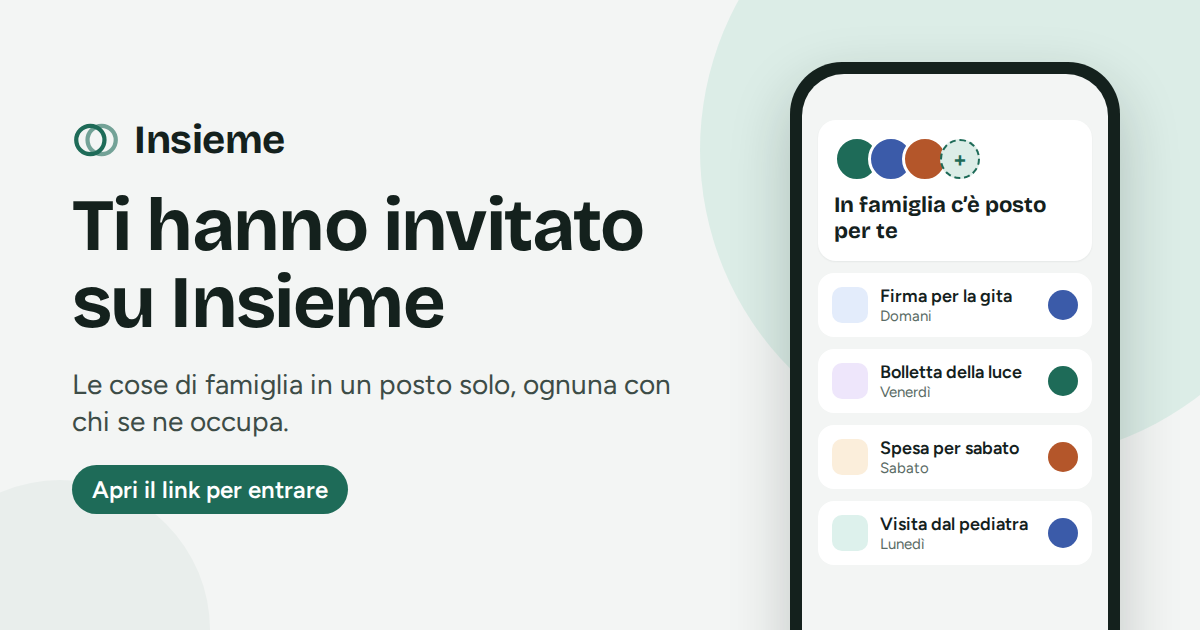
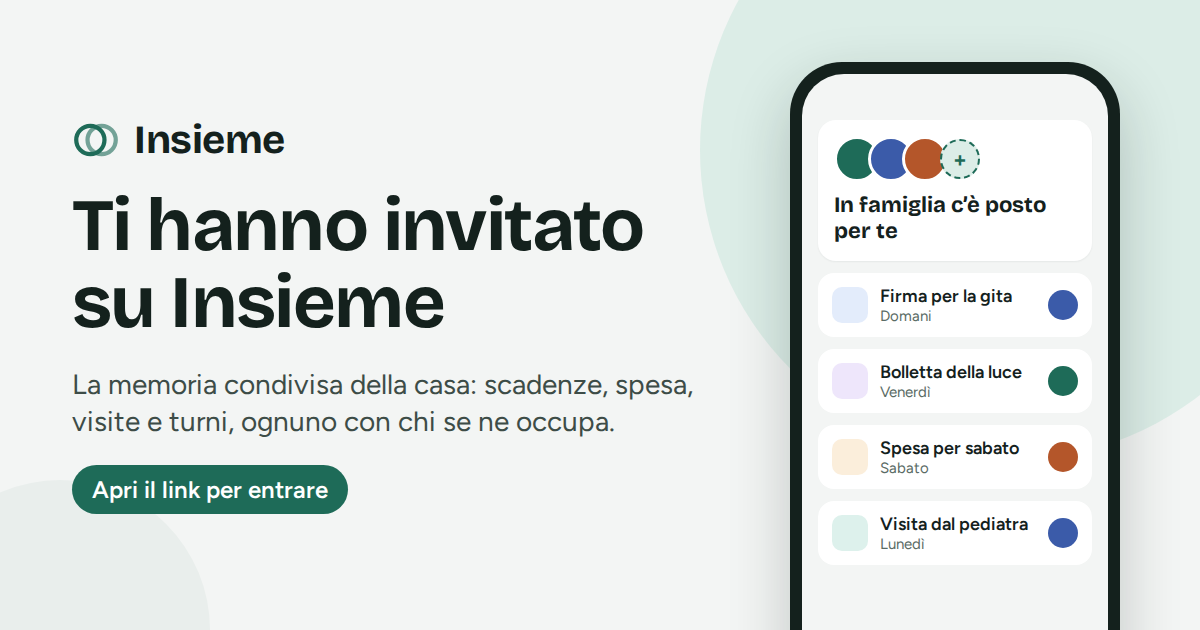
Invite page from insieme@537b5792 (scripts/build-invite-landing.mts)

Changed region(s): [[0.0617, 0.573, 0.5858, 0.6937]]

diff --git a/404.html b/404.html
@@ -8,7 +8,7 @@
 <meta name="referrer" content="no-referrer">
 <meta name="robots" content="noindex, nofollow">
 <title>Ti hanno invitato su Insieme</title>
-<meta name="description" content="Insieme tiene in ordine le cose di famiglia: ognuna con una data e chi se ne occupa. Apri il link per entrare in famiglia.">
+<meta name="description" content="Insieme è la memoria condivisa della casa: scadenze, spesa, visite e turni, ognuno con una data e chi se ne occupa. Apri il link per entrare in famiglia.">
 <meta name="color-scheme" content="light dark">
 <meta name="theme-color" content="#F3F5F4" media="(prefers-color-scheme: light)">
 <meta name="theme-color" content="#101815" media="(prefers-color-scheme: dark)">
@@ -26,15 +26,15 @@
 <meta property="og:locale:alternate" content="en_GB">
 <meta property="og:url" content="https://nealab-ai.github.io/insieme-app/">
 <meta property="og:title" content="Ti hanno invitato su Insieme">
-<meta property="og:description" content="Insieme tiene in ordine le cose di famiglia: ognuna con una data e chi se ne occupa. Apri il link per entrare in famiglia.">
+<meta property="og:description" content="Insieme è la memoria condivisa della casa: scadenze, spesa, visite e turni, ognuno con una data e chi se ne occupa. Apri il link per entrare in famiglia.">
 <meta property="og:image" content="https://nealab-ai.github.io/insieme-app/og.png">
 <meta property="og:image:type" content="image/png">
 <meta property="og:image:width" content="1200">
 <meta property="og:image:height" content="630">
-<meta property="og:image:alt" content="Insieme: ti hanno invitato. Le cose di famiglia in un posto solo, ognuna con chi se ne occupa.">
+<meta property="og:image:alt" content="Insieme: ti hanno invitato. La memoria condivisa della casa: scadenze, spesa, visite e turni, ognuno con chi se ne occupa.">
 <meta name="twitter:card" content="summary_large_image">
 <meta name="twitter:title" content="Ti hanno invitato su Insieme">
-<meta name="twitter:description" content="Insieme tiene in ordine le cose di famiglia: ognuna con una data e chi se ne occupa. Apri il link per entrare in famiglia.">
+<meta name="twitter:description" content="Insieme è la memoria condivisa della casa: scadenze, spesa, visite e turni, ognuno con una data e chi se ne occupa. Apri il link per entrare in famiglia.">
 <meta name="twitter:image" content="https://nealab-ai.github.io/insieme-app/og.png">
 <script src="qr.js" defer></script>
 <script src="invite.js" defer></script>
@@ -66,7 +66,7 @@
 
   <div class="intro">
     <h1 data-i18n="title">Ti hanno invitato su Insieme</h1>
-    <p class="lead" data-i18n="lead">Insieme tiene in ordine le cose di famiglia: ognuna con una data e chi se ne occupa. Entri in tre passi.</p>
+    <p class="lead" data-i18n="lead">Insieme è la memoria condivisa della casa: scadenze, spesa, visite e turni, ognuno con una data e chi se ne occupa. Entri in tre passi.</p>
   </div>
 
   <section class="card ios only-ios" aria-labelledby="ios-title">
@@ -127,7 +127,7 @@
 </div>
 
 <footer class="foot">
-  <p data-i18n="trust">Insieme è l'app che tiene in ordine le cose di famiglia. Questa pagina non usa cookie né statistiche.</p>
+  <p data-i18n="trust">Insieme è la memoria condivisa della casa. Questa pagina non usa cookie né statistiche.</p>
   <a id="privacy" href="https://insieme.app/privacy/" data-href-en="https://insieme.app/en/privacy/" data-i18n="privacy">Privacy</a>
 </footer>
 </body>

diff --git a/index.html b/index.html
@@ -7,7 +7,7 @@
 <meta name="referrer" content="no-referrer">
 <meta name="robots" content="noindex, nofollow">
 <title>Ti hanno invitato su Insieme</title>
-<meta name="description" content="Insieme tiene in ordine le cose di famiglia: ognuna con una data e chi se ne occupa. Apri il link per entrare in famiglia.">
+<meta name="description" content="Insieme è la memoria condivisa della casa: scadenze, spesa, visite e turni, ognuno con una data e chi se ne occupa. Apri il link per entrare in famiglia.">
 <meta name="color-scheme" content="light dark">
 <meta name="theme-color" content="#F3F5F4" media="(prefers-color-scheme: light)">
 <meta name="theme-color" content="#101815" media="(prefers-color-scheme: dark)">
@@ -25,15 +25,15 @@
 <meta property="og:locale:alternate" content="en_GB">
 <meta property="og:url" content="https://nealab-ai.github.io/insieme-app/">
 <meta property="og:title" content="Ti hanno invitato su Insieme">
-<meta property="og:description" content="Insieme tiene in ordine le cose di famiglia: ognuna con una data e chi se ne occupa. Apri il link per entrare in famiglia.">
+<meta property="og:description" content="Insieme è la memoria condivisa della casa: scadenze, spesa, visite e turni, ognuno con una data e chi se ne occupa. Apri il link per entrare in famiglia.">
 <meta property="og:image" content="https://nealab-ai.github.io/insieme-app/og.png">
 <meta property="og:image:type" content="image/png">
 <meta property="og:image:width" content="1200">
 <meta property="og:image:height" content="630">
-<meta property="og:image:alt" content="Insieme: ti hanno invitato. Le cose di famiglia in un posto solo, ognuna con chi se ne occupa.">
+<meta property="og:image:alt" content="Insieme: ti hanno invitato. La memoria condivisa della casa: scadenze, spesa, visite e turni, ognuno con chi se ne occupa.">
 <meta name="twitter:card" content="summary_large_image">
 <meta name="twitter:title" content="Ti hanno invitato su Insieme">
-<meta name="twitter:description" content="Insieme tiene in ordine le cose di famiglia: ognuna con una data e chi se ne occupa. Apri il link per entrare in famiglia.">
+<meta name="twitter:description" content="Insieme è la memoria condivisa della casa: scadenze, spesa, visite e turni, ognuno con una data e chi se ne occupa. Apri il link per entrare in famiglia.">
 <meta name="twitter:image" content="https://nealab-ai.github.io/insieme-app/og.png">
 <script src="qr.js" defer></script>
 <script src="invite.js" defer></script>
@@ -65,7 +65,7 @@
 
   <div class="intro">
     <h1 data-i18n="title">Ti hanno invitato su Insieme</h1>
-    <p class="lead" data-i18n="lead">Insieme tiene in ordine le cose di famiglia: ognuna con una data e chi se ne occupa. Entri in tre passi.</p>
+    <p class="lead" data-i18n="lead">Insieme è la memoria condivisa della casa: scadenze, spesa, visite e turni, ognuno con una data e chi se ne occupa. Entri in tre passi.</p>
   </div>
 
   <section class="card ios only-ios" aria-labelledby="ios-title">
@@ -126,7 +126,7 @@
 </div>
 
 <footer class="foot">
-  <p data-i18n="trust">Insieme è l'app che tiene in ordine le cose di famiglia. Questa pagina non usa cookie né statistiche.</p>
+  <p data-i18n="trust">Insieme è la memoria condivisa della casa. Questa pagina non usa cookie né statistiche.</p>
   <a id="privacy" href="https://insieme.app/privacy/" data-href-en="https://insieme.app/en/privacy/" data-i18n="privacy">Privacy</a>
 </footer>
 </body>

diff --git a/invite.js b/invite.js
@@ -14,7 +14,7 @@
   var EN = {
     "title": "You’ve been invited to Insieme",
     "langSwitch": "Italiano",
-    "lead": "Insieme keeps family things in order: each one with a date and someone on it. You’re in after three steps.",
+    "lead": "Insieme is your home’s shared memory: deadlines, shopping, appointments and chores, each with a date and someone on it. You’re in after three steps.",
     "iosTitle": "Coming soon for iPhone",
     "iosBody": "For now Insieme is Android only, as a test version. The iPhone and iPad app is on its way: when it’s ready, ask whoever invited you for a new invite.",
     "iosAndroid": "Also have an Android phone? Open this link there and follow the three steps.",
@@ -41,7 +41,7 @@
     "qrLabel": "QR code of this page",
     "qrTitle": "Open this page on your phone",
     "qrBody": "Scan the code with your Android phone’s camera: the invite is already in it.",
-    "trust": "Insieme is the app that keeps family things in order. This page uses no cookies and no analytics.",
+    "trust": "Insieme is your home’s shared memory. This page uses no cookies and no analytics.",
     "privacy": "Privacy"
   };
   /* COPY-END */
